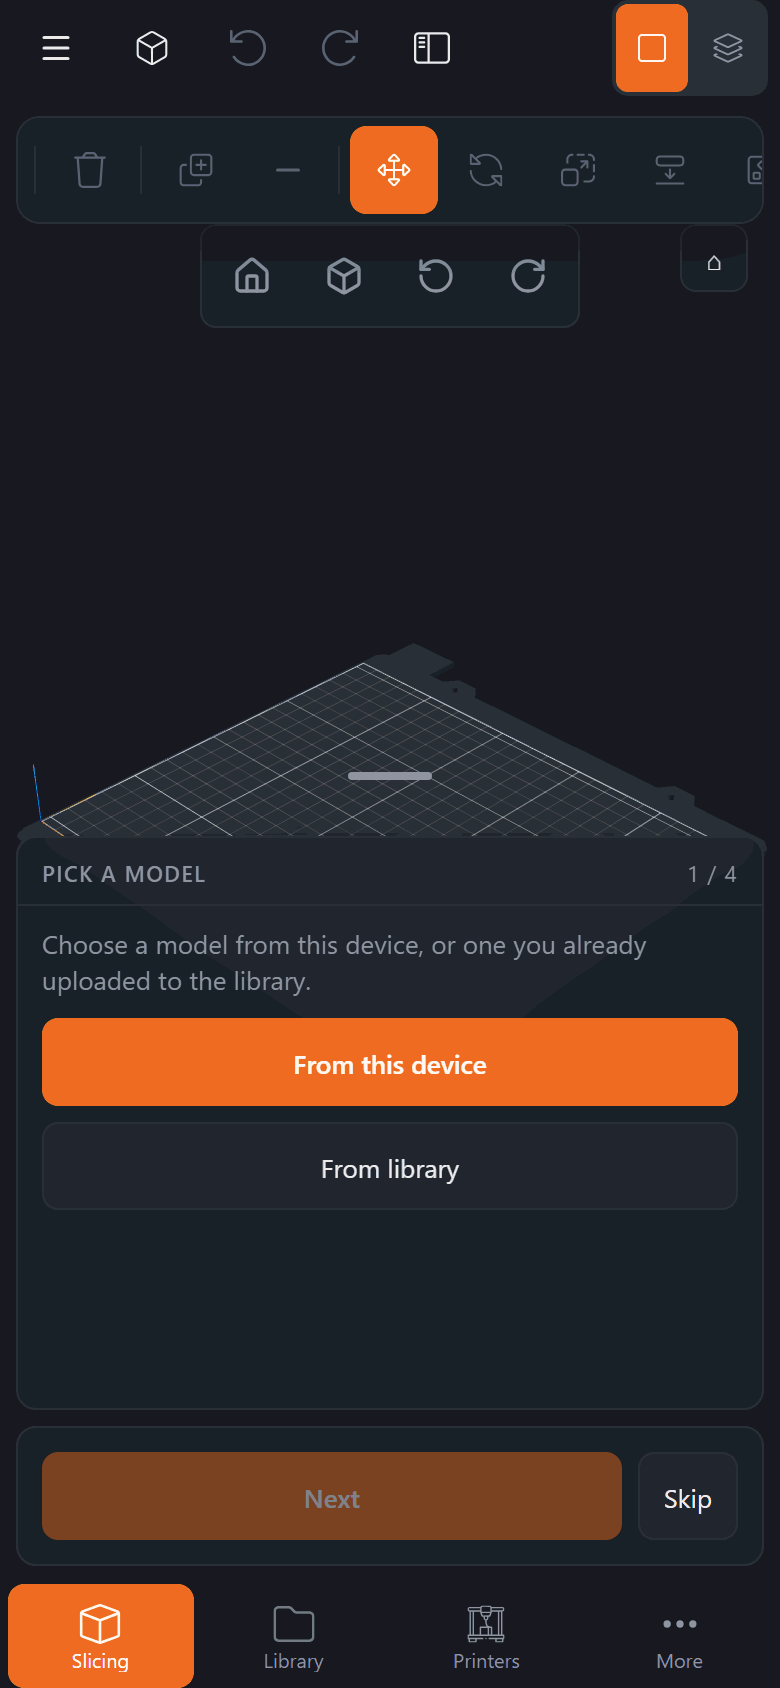
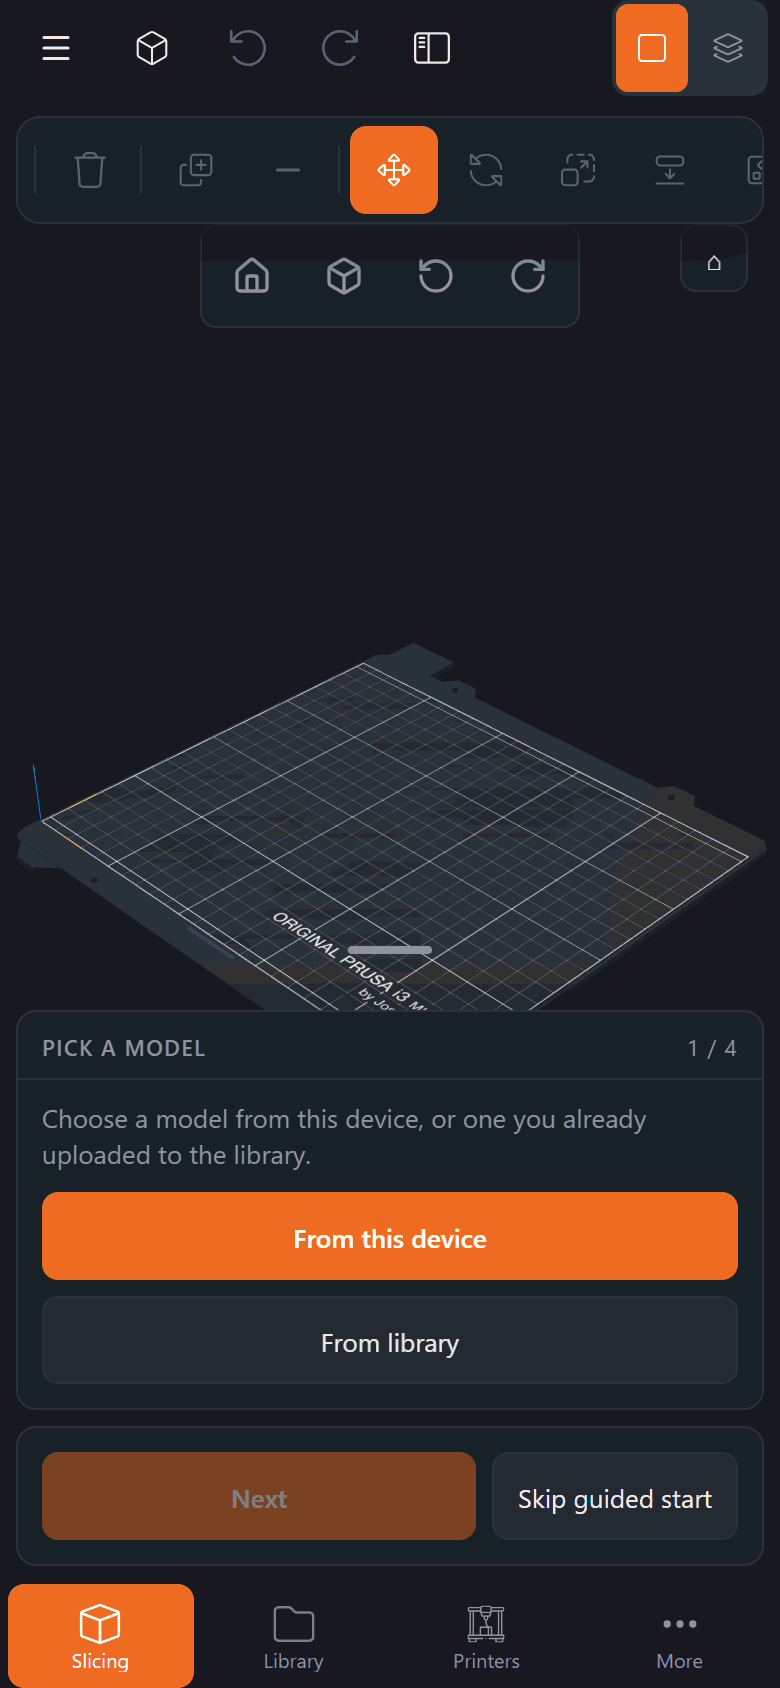
docs: the retest's fixes, their UAT and the phone screenshots (T-101)
- features.md and UAT-60 describe the framed scene above the sheet, the flow's
  own height, the skip question and the Preview's Back and Finish
- guided-step-1 to -4, phone-preview-peek and phone-preview-hidden regenerate
  from the new layout; phone-preview-peek-before is the report's evidence of
  main at f83bb55 (23 KB)
- the screenshot script waits out the Slicing finished toast before the phone
  Preview shot

diff --git a/e2e/scripts/screenshots.ts b/e2e/scripts/screenshots.ts
@@ -260,11 +260,39 @@ async function main(): Promise<void> {
     await settle(guidedPage, 800);
     await shot(guidedPage, 'guided-step-1', 'the guided start on a phone: step 1, the two ways to a model');
     await importFile(guidedPage, CUBE);
-    for (let next = 0; next < 3; next++) {
-      await guidedPage.getByTestId('guided-next').click();
-      await settle(guidedPage, 700);
-    }
+    await guidedPage.getByTestId('guided-next').click();
+    await settle(guidedPage, 900);
+    await shot(guidedPage, 'guided-step-2', 'the guided start on a phone: step 2, printer and profiles');
+    await guidedPage.getByTestId('guided-next').click();
+    await settle(guidedPage, 900);
+    await shot(guidedPage, 'guided-step-3', 'the guided start on a phone: step 3, the quick settings');
+    await guidedPage.getByTestId('guided-next').click();
+    await settle(guidedPage, 900);
     await shot(guidedPage, 'guided-step-4', 'the guided start on a phone: step 4, the summary, destination and Slice');
+    // T-101: the Preview's free 3D area at peek and with the sheet hidden
+    await guidedPage.getByTestId('slice-button').click();
+    await guidedPage.waitForFunction(
+      () => {
+        const j = window.webslicer.getState().job;
+        return !!j && ['done', 'error'].includes(j.status);
+      },
+      null,
+      { timeout: 600_000 },
+    );
+    await guidedPage.evaluate(() => window.webslicer.getState().setSheetState('peek'));
+    await guidedPage.waitForFunction(() => !!window.webslicer.getState().gcode && !window.webslicer.getState().gcodeLoading, null, {
+      timeout: 180_000,
+    });
+    // the slice's "Slicing finished" toast lives 4.5 s and lies over the tab bar: wait it out
+    await guidedPage.waitForFunction(() => document.querySelectorAll('[data-testid="toast"]').length === 0, null, {
+      timeout: 20_000,
+    });
+    await guidedPage.getByTestId('view-iso').click();
+    await settle(guidedPage, 2000);
+    await shot(guidedPage, 'phone-preview-peek', 'the Phone Preview at peek: the result and Send in the sheet');
+    await guidedPage.evaluate(() => window.webslicer.getState().setSheetState('hidden'));
+    await settle(guidedPage, 1500);
+    await shot(guidedPage, 'phone-preview-hidden', 'the Phone Preview with the sheet hidden: the whole scene');
     await guided.close();
 
     // a second model with two objects makes the plater look less empty for the hero image

diff --git a/docs/UAT.md b/docs/UAT.md
@@ -85,7 +85,7 @@ browser and screenshot.
 | UAT-58 | The 3D view and the preview by finger (T-092, T-099) | Open the app on a phone (or a narrow window with touch emulation), touch a model on the plate and drag a finger over empty space, pinch with two fingers and move them together, double-tap the screen, long-press the model, then drag the selected model across the plate. On an empty plate check the **From library** button next to **Choose a model…**. Drag the sheet's grip down past peek until the grip is alone, tap it back to peek, and drag up slowly to watch the sheet follow the finger. Load a job, open the preview, tap **Details** in the peek row, tap the four view buttons above the model (Home, Iso, turn left, turn right) and turn right four times, drag the bottom slider, and send the job to a printer from the sheet. | The page never scrolls or reloads from a gesture on the model (no pull-to-refresh, no back-swipe): one finger orbits, two fingers zoom and pan, a double tap restores the whole plate, a tap selects and a tap on empty space clears it, a long press offers Duplicate and Delete at the finger, and a drag of the selected model moves it on the plate and drops it onto the bed. **From library** opens the Library dialog and loading its sample folds the sheet to peek. The sheet follows the finger one-to-one, settles on the nearest position after the release (or on the next one after a fling), gets as far down as the grip alone with the Slice button gone there, and a tap walks peek → half → full → peek without ever stopping on hidden. In the preview the row has exactly four buttons in one line (Home, Iso, turn left, turn right): each frames the toolpaths, a turn keeps the camera's height and distance, and four turns come back to the start. The row has no Top/Bottom/Front/Rear/Left/Right on a phone, and on a desktop the Preview's row has no Bottom while the Plater keeps all seven (key 2 still works in both). **Details** sits in the peek row, opens the sliced info and the legend, and the result line (time, filament, cost) and **Send** stay in the peek sheet. Landscape at 844 × 390 shows no sideways scroll and keeps the Slice button on screen. |
 | UAT-59 | Preview feedback (T-094, T-097) | Slice the 30 mm sphere. Zoom far out and close in; at close zoom drag **Top** and **Bottom** to a middle layer, then to the first and last single layers and back to the full range; drag the Move slider back and forth. In Filament Settings set **Filament colour** through the swatch and then through its hex field, returning to Preview with **Color print** selected each time. | Extrusion ribbons keep a readable width (at least 1.5 px far away) and stay interactive. At close zoom the layer window removes exactly the layers outside it, both single-layer ends stay visible, the full range restores the model, and Move partly removes/rebuilds the top layer while the yellow nozzle follows. Both colour controls hold the same valid hex value and the Preview changes to each chosen colour. |
 
-| UAT-60 | Guided start on a phone (T-100) | On a phone, open WebSlicer with an empty plate and a cleared session: the guided flow opens on step **1 / 4**. Pick **From library**, load `calibration_cube_20mm.stl`, press **Next**, look at the printer, filament and print rows, press **Next**, choose 40% fill density, press **Next**, then **Slice now** and **Send** to a printer. Press **Skip** on a step and reopen the flow from **More → Guided start**. Turn **Guided start on phones** off in Preferences and reload. | Step 1 names the picked file and Next stays disabled until a model is there; the sheet's footer has only Back, Next and Skip, never a Slice button on an empty plate. Steps 2–3 show the same preset and quick-setting controls as the free panel; step 4 adds the destination and Slice now and its Skip reads **More settings**. The sliced G-code carries `fill_density = 40%`, the result line and Send appear in the peek sheet, and the send reaches the host. Skip keeps the model and returns the free layout; More → Guided start opens step 1 with that model. With the preference off no flow opens; a reload that restores a model also starts in the free layout. |
+| UAT-60 | Guided start on a phone (T-100, T-101) | On a phone, open WebSlicer with an empty plate and a cleared session: the guided flow opens on step **1 / 4**. Pick **From library**, load `calibration_cube_20mm.stl`, and watch the scene above the sheet; press **Next**, look at the printer, filament and print rows, press **Next**, choose 40% fill density, press **Next**, then **Slice now** and **Send** to a printer. In the Preview press **Back** – the Plater returns at step **4 / 4** with the result kept – then reopen the Preview from the view controls and press **Finish**. Start again: on steps 1–3 press **Skip guided start** and answer **Yes** once (the flow must open again on the next empty plate) and **Don't show again** once. With the preference on, remove the last model through the object list and watch the flow return; turn **Guided start on phones** off in Preferences and remove a model again. | Step 1 names the picked file and Next stays disabled until a model is there; the sheet's footer has only Back, Next and Skip, never a Slice button on an empty plate. The imported model lands centred on the plate and plate and model sit completely in the free area between the view row and the sheet, in every step; the sheet takes its card's height (at most 45 % of the screen) and drags down to **hidden**, the handle tap brings it back on the same step. Steps 2–3 show the same preset and quick-setting controls as the free panel; step 4 adds the destination and Slice now and its Skip reads **More settings**. The sliced G-code carries `fill_density = 40%`, the result line, **Send**, **Back** and **Finish** appear in the Preview's sheet footer (two rows at **peek** – the result beside the **Details** chip, then Send beside Back and Finish – so the model keeps at least half the screen; the destination opens with the sheet), and the send reaches the host; Back returns to step 4 in the Plater and Finish leaves to the free Preview layout without a question. **Skip guided start** asks _Show the guided start next time?_: **Yes** keeps the preference (the flow opens again on the next empty plate), **Don't show again** switches it off (no flow on an empty plate, also in a fresh session). Removing the last model with the preference on opens step 1; with it off nothing opens, and More → Guided start still opens the flow at any time. A reload that restores a model starts in the free layout. |
 
 ## Known limitations (rc.2)
 

diff --git a/docs/features.md b/docs/features.md
@@ -115,11 +115,17 @@ Below 640 px the same app is a companion view for the print you already started:
   the handle brings the layer slider up with the sliced model visible above it;
 - a fresh session with an empty plate opens the **guided start** – four steps in the sheet, **1 / 4**
   to **4 / 4**: a model (this device or the library), the printer and its profiles, the settings (or
-  **Fine as it is? Just continue.**), then the destination and **Slice now**. **Back**, **Next** and
-  **Skip** sit in the sheet's footer; on the last step Skip reads **More settings**. The flow is
-  reopened from **More → Guided start**. An empty plate's footer stays quiet – no destination,
-  warning line or Slice button – until a model is on it. Preferences → **Guided start on phones**
-  (default on) turns the flow off, and a reload that restored a model starts in the free layout;
+  **Fine as it is? Just continue.**), then the destination and **Slice now**. **Back** and **Next**
+  sit in the sheet's footer; steps 1–3 carry **Skip guided start**, which asks _Show the guided start
+  next time?_ – **Yes** keeps it, **Don’t show again** switches the preference off. On the last step
+  Skip reads **More settings**. The flow opens whenever the plate is or becomes empty – on a fresh
+  start and again after the last model is removed – and is reopened from **More → Guided start**. An
+  empty plate's footer stays quiet – no destination, warning line or Slice button – until a model is
+  on it. Preferences → **Guided start on phones** (default on) turns the flow off, and a reload that
+  restored a model starts in the free layout. The flow's sheet takes the height its card needs (at
+  most 45 % of the screen) and folds to **hidden** like any other sheet. After **Slice now** the flow
+  stays alive in the Preview: the result line, **Send to printer**, **Back** (to step 4 in the
+  Plater, the result kept) and **Finish** are in the sheet's footer;
 - the object list is a **drawer** that the top bar opens; it stops above the tab bar;
 - dialogs take the phone's width, scroll their body and keep their primary button in a foot that
   stays on screen. Text and number fields use the phone's decimal keypad and are 16 px, so the browser
@@ -146,16 +152,29 @@ model:
 Rotating, scaling and the exact numbers stay in the panels, where a field and a stepper are more
 precise than a finger. The view row above the model is four icon buttons in one line – **Home**
 (frames the whole plate), **Iso**, and the two quarter turns that walk the camera around the model at
-the same elevation and distance – so the four isometric corners are one tap apart. On a wider window
-the row keeps the seven named views (minus Bottom in the Preview, where the plate hides the underside;
-key 2 still reaches it there and in the Plater).
+the same elevation and distance – so the four isometric corners are one tap apart. A turn always
+leaves the horizon level (the world's up stays vertical), whatever view or finger orbit it started
+from. On a wider window the row keeps the seven named views (minus Bottom in the Preview, where the
+plate hides the underside; key 2 still reaches it there and in the Plater).
+
+On a phone the 3D view owns the space above the sheet: whenever a model arrives, a guided step
+changes or the sheet settles, the plate and every object are framed completely inside the band
+between the top rows and the sheet's top edge. Only a camera moved by hand keeps its place; **Home**
+gives the framing back. A first import – from the device, the library or the drop zone – lands
+centred on the plate.
 
 **A print from the phone's view.** In the free layout the first file of the flow – picked in the Library, dropped, or
 chosen with the plater's own **Choose a model…** or **From library** button – folds the sheet to
 **peek**, where the result line (**time · filament · cost**) sits right above the destination and
-**Send**. The Preview's view row frames the visible toolpaths in one tap, the layer slider's thumb is
-a 44 px touch target, and the legend and the sliced details sit behind a labelled **Details** chip in
-the peek row, so they are one tap away without opening the sheet.
+**Send**. The Preview edits no plate, so its tool strip is not shown on a phone and the view row
+takes the top edge; that row frames the visible toolpaths in one tap, the layer slider's thumb is a
+44 px touch target, and the legend and the sliced details sit behind a labelled **Details** chip in
+the peek row, so they are one tap away without opening the sheet. With the guided start still open
+the Preview's peek footer is two finger-sized rows – the result beside **Details**, then **Send**
+beside **Back** and **Finish**; the destination and the copy buttons are in the panel once it is
+opened. At **peek** the sheet and the top rows still leave at least 55 % of the screen height to the
+3D view, and with the sheet **hidden** at least 70 % does, so a zoomed-in Preview never buries the
+model under its own controls.
 
 The desktop layout is unchanged above 900 px; 640–899 px keeps the drawers of the tablet layout.
 

diff --git a/CHANGELOG.md b/CHANGELOG.md
@@ -9,6 +9,9 @@ rc.3 to rc.5 and of the `Unreleased` of that time are kept verbatim in
 
 ### Fixed
 
+- **Phone retest follow-ups (T-101):** the 3D view frames the plate and model into the room above the
+  sheet (instead of behind it), every turn leaves a level horizon, a first import lands centred, and
+  the Plater is drawn again after a slice instead of turning black.
 - **Phone test follow-ups (T-099):** an empty plate offers **From library** next to the picker, the
   Preview's view row drops Bottom (#14; the Plater keeps all seven, key 2 still works), and the legend
   and stats sit behind a labelled **Details** chip in the sheet's peek row.
@@ -20,6 +23,10 @@ rc.3 to rc.5 and of the `Unreleased` of that time are kept verbatim in
 
 ### Changed
 
+- **The guided start finishes properly (T-101):** its sheet takes the card's height (at most 45 % of
+  the screen) and folds to hidden; it opens whenever the plate is empty again; **Skip guided start**
+  asks whether to show it next time; after slicing, the Preview keeps the result, Send, Back and
+  Finish. The phone Preview at peek leaves at least 55 % of the screen to the 3D view (70 % hidden).
 - **The phone's sheet and view row (T-099):** the sheet follows the finger one-to-one, settles on the
   nearest of hidden / peek / half / full after the release, and a tap cycles peek → half → full →
   peek; the view row is four buttons in one line (Home, Iso, turn left, turn right).
